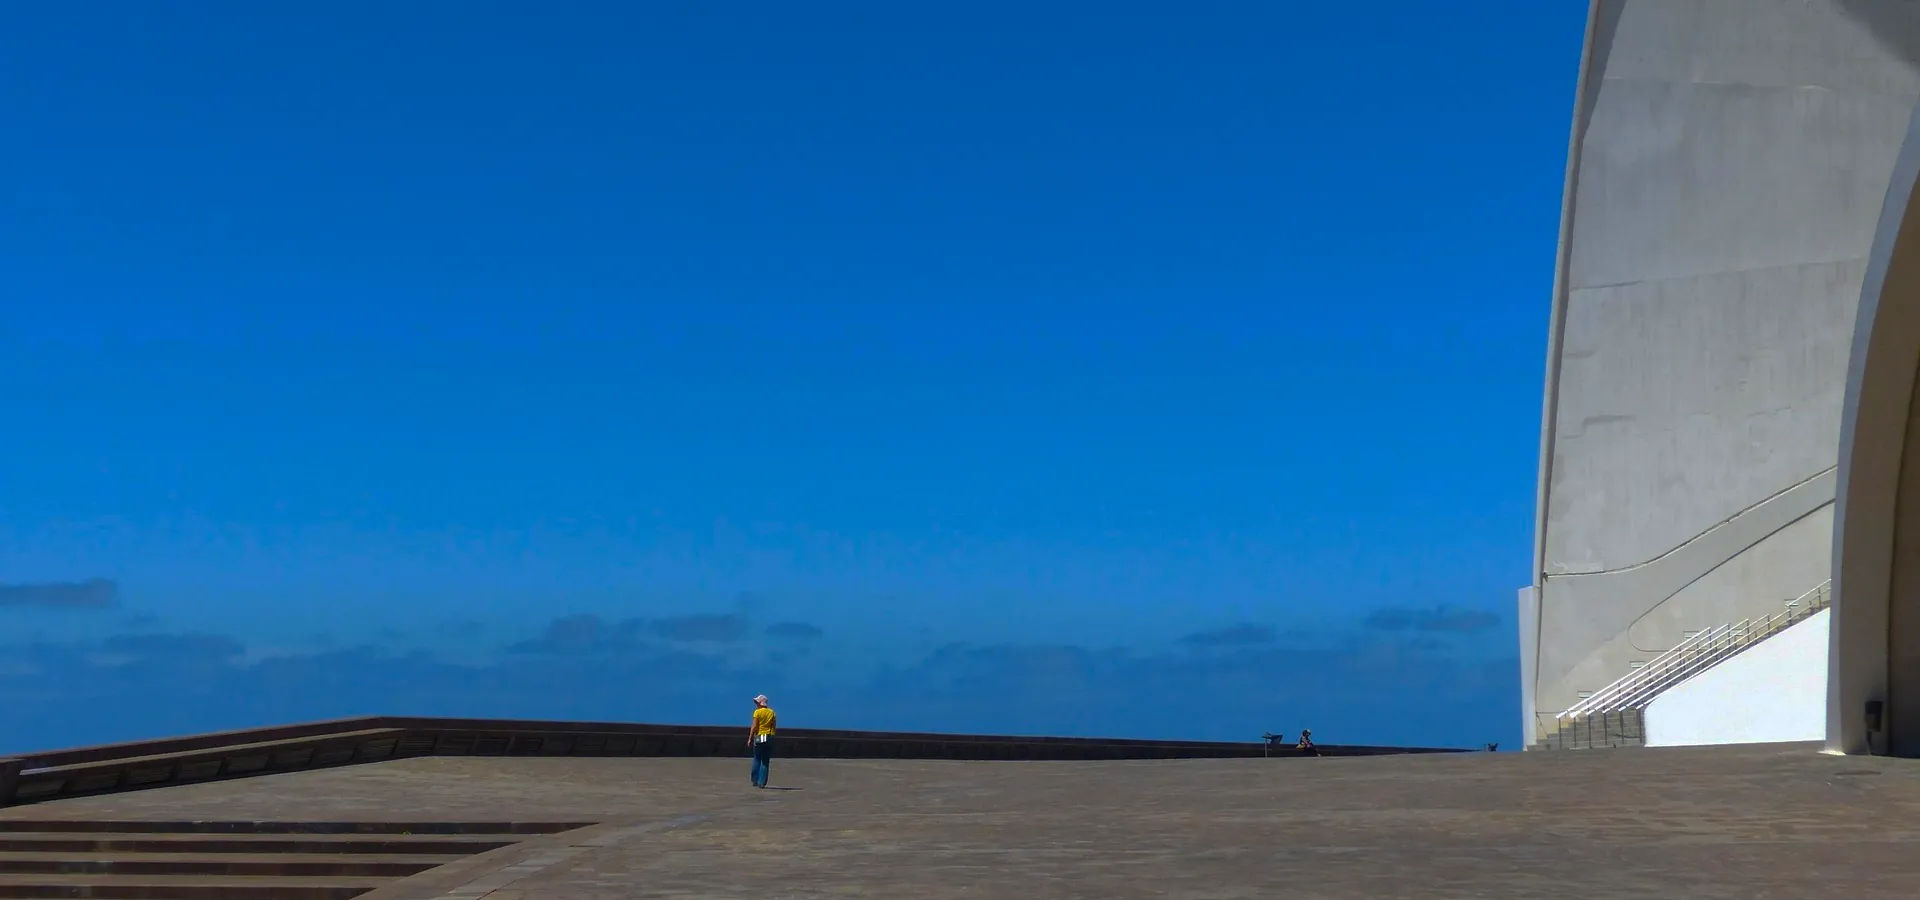
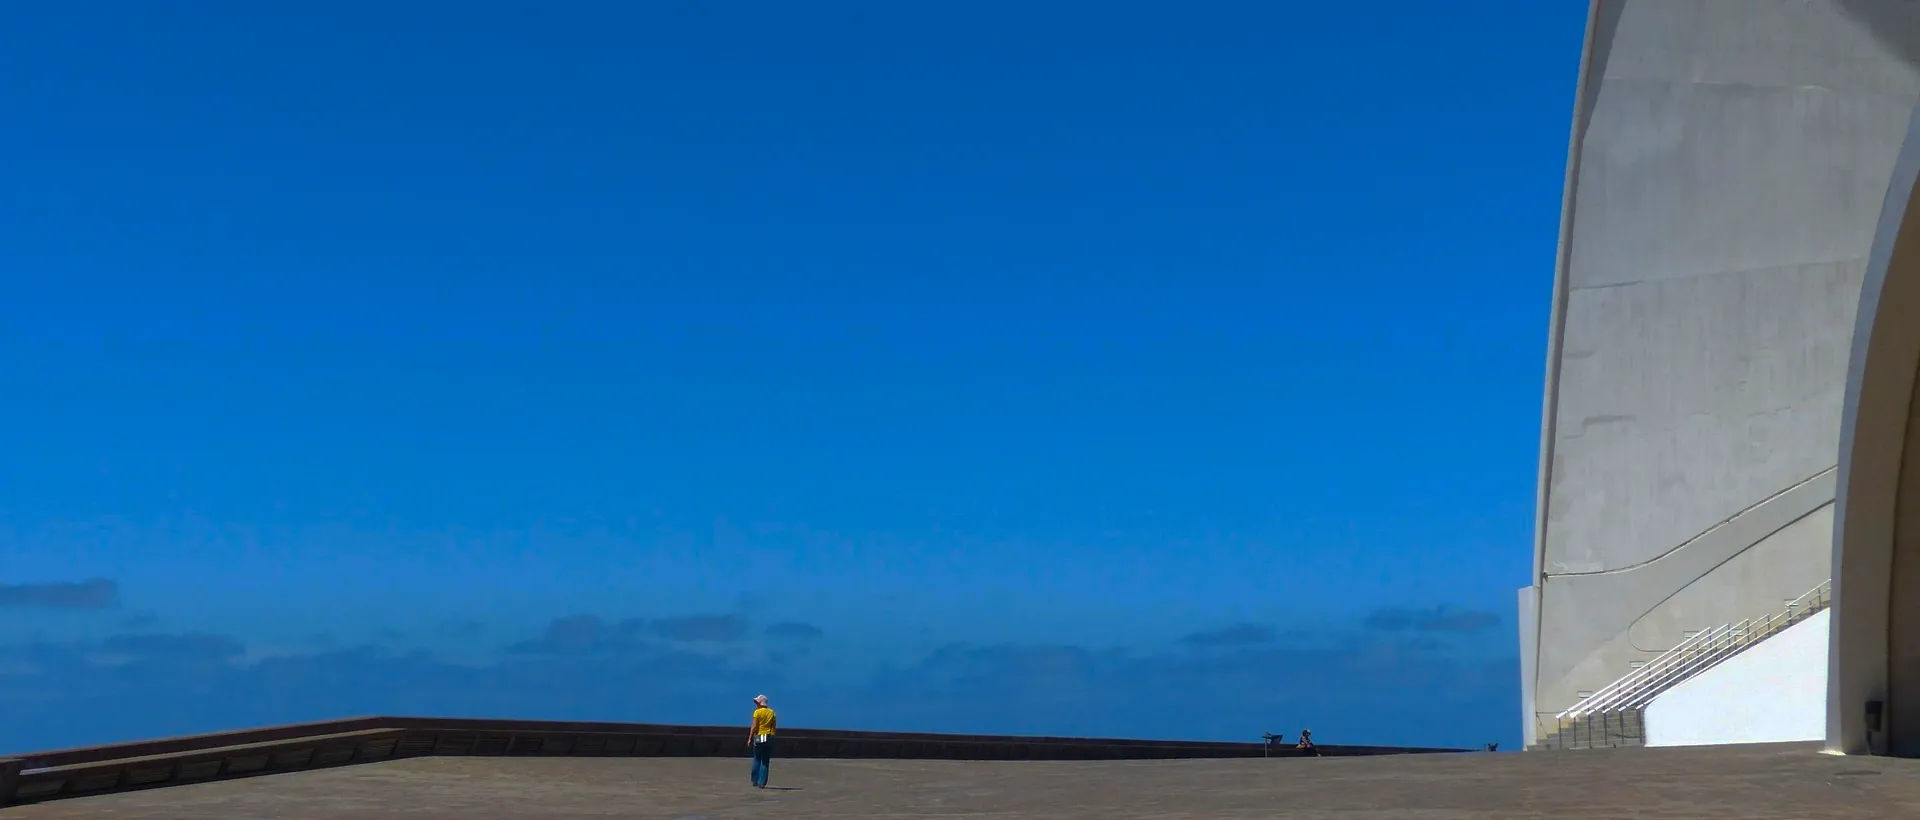
update home, about, and services pages

Changed region(s): [[0.0, 0.3354, 1.0, 1.0], [0.9688, 0.2134, 1.0, 0.4573]]

diff --git a/src/app/page.tsx b/src/app/page.tsx
@@ -10,7 +10,7 @@ export default function Home() {
       <Banner
         title="Become ISO/IEC 27001 Certified"
         subtitle="ISO/IEC 27001 is the world's best-known standard for information security management systems (ISMS). It defines requirements an ISMS must meet."
-        imageUrl="https://res.cloudinary.com/dc2xfaobx/image/upload/f_auto,q_auto/v1766061567/banner-main_fsf1es.webp"
+        imageUrl="https://res.cloudinary.com/dc2xfaobx/image/upload/v1767163945/banner-main_f86xaf.jpg"
         height={680}
       />
       <main className="max-w-375 mx-auto px-6 py-12">
@@ -19,8 +19,65 @@ export default function Home() {
 
         <p className="text-md">Cras mollis, nulla sit amet mattis dapibus, metus libero tincidunt nisi, rhoncus molestie ligula turpis ut dolor. Quisque porttitor leo sed neque dapibus, eget sollicitudin lorem semper. Donec in augue sagittis, rhoncus diam vitae, ultrices elit. Vestibulum euismod, felis et tincidunt euismod, neque sem tincidunt metus, eu cursus nisl est eu mi. Phasellus sodales leo urna, quis mattis ante volutpat id. Proin gravida eleifend tempor. Phasellus euismod ipsum nisi, accumsan efficitur magna tristique sed. Phasellus malesuada nisi lorem, a dapibus neque sagittis vitae. Pellentesque gravida, leo a tincidunt pellentesque, ante elit efficitur quam, id rutrum purus sem vel dui.</p>
 
-        <p className="text-md">Etiam ultricies magna erat, at suscipit metus porta interdum. Proin volutpat scelerisque lacus lobortis commodo. Curabitur egestas iaculis fermentum. Mauris auctor sapien a nulla facilisis, at mollis lacus imperdiet. Quisque quis congue nisl. Donec lacinia ipsum turpis, sed placerat ligula mollis nec. Ut dapibus, lorem sit amet auctor hendrerit, enim nulla laoreet nulla, a commodo quam diam pretium mauris. Phasellus ut nulla lorem. Maecenas vulputate, nulla at ullamcorper accumsan, mauris nibh luctus nisl, vel viverra nibh lacus eget nisl. Class aptent taciti sociosqu ad litora torquent per conubia nostra, per inceptos himenaeos. Nullam quis ante volutpat, rutrum ex eget, dapibus metus. Cras consectetur bibendum nisi, et suscipit purus porttitor vel. Integer rutrum quam eget sem aliquet, sit amet iaculis nulla tincidunt. Nunc iaculis risus ut magna laoreet, in hendrerit lorem dignissim.</p>
+        <p className="text-md">Etiam ultricies magna erat, at suscipit metus porta interdum. Proin volutpat scelerisque lacus lobortis commodo. Curabitur egestas iaculis fermentum. Mauris auctor sapien a nulla facilisis, at mollis lacus imperdiet. Quisque quis congue nisl. Donec lacinia ipsum turpis, sed placerat ligula mollis nec.</p>
+
+
+        {/* Testimonials */}
+        <div className="block my-12">
+          <h2 className="text-3xl text-center font-bold mb-4">What our satified clients had to say</h2>
+
+          <div className="mt-12 grid grid-cols-1 md:grid-cols-3 gap-8">
+            <div className="bg-gray-100 p-6 rounded-lg shadow-md">
+              <div className="flex items-center mb-4">
+                <div className="w-16 h-16 rounded-full overflow-hidden mr-4">
+                  <img src="/personnel/sample1.jpg" alt="John Doe" className="w-full h-full object-cover" />
+                </div>
+                <div className="h-16 overflow-hidden">
+                  <span className="font-semibold text-lg m-0 block">John Doe</span>
+                  <span className="text-sm text-gray-600">CEO, Example Corp.</span>
+                </div>
+              </div>
+              <p className="text-md mb-4">"Qualitex PH provided exceptional service. Their expertise helped us streamline our processes and achieve our certification goals efficiently. Highly recommended!"</p>
+              <div className="flex text-yellow-500 text-2xl">
+                {'★'.repeat(5)}
+              </div>
+            </div>
+
+            <div className="bg-gray-100 p-6 rounded-lg shadow-md">
+              <div className="flex items-center mb-4">
+                <div className="w-16 h-16 rounded-full overflow-hidden mr-4">
+                  <img src="/personnel/sample2.jpg" alt="Jane Smith" className="w-full h-full object-cover" />
+                </div>
+                <div className="h-16 overflow-hidden">
+                  <span className="font-semibold text-lg m-0 block">Jane Smith</span>
+                  <span className="text-sm text-gray-600">Operations Manager, Global Solutions</span>
+                </div>
+              </div>
+              <p className="text-md mb-4">"The team at Qualitex PH was incredibly professional and knowledgeable. They guided us through every step of the ISO certification process with ease."</p>
+              <div className="flex text-yellow-500 text-2xl">
+                {'★'.repeat(5)}
+              </div>
+            </div>
+
+            <div className="bg-gray-100 p-6 rounded-lg shadow-md">
+              <div className="flex items-center mb-4">
+                <div className="w-16 h-16 rounded-full overflow-hidden mr-4">
+                  <img src="/personnel/sample3.jpg" alt="Alice Johnson" className="w-full h-full object-cover" />
+                </div>
+                <div className="h-16 overflow-hidden">
+                  <span className="font-semibold text-lg m-0 block">Alice Johnson</span>
+                  <span className="text-sm text-gray-600">Director, Tech Innovations</span>
+                </div>
+              </div>
+              <p className="text-md mb-4">"We are extremely satisfied with the results. Qualitex PH helped us not only achieve compliance but also improve our overall quality management system."</p>
+              <div className="flex text-yellow-500 text-2xl">
+                {'★'.repeat(5)}
+              </div>
+            </div>
+          </div>
+        </div>
       </main>
+
       <Footer />
     </>
   );

diff --git a/src/app/services/page.tsx b/src/app/services/page.tsx
@@ -16,6 +16,12 @@ export default function Services() {
       />
       <main className="max-w-375 mx-auto px-6 py-12">
 
+        <div className="text-center mb-10 mt-12">
+          <h2 className="text-6xl font-bold mb-4">ISO/IEC 27001:2022</h2>
+          <p className="text-2xl">Information security, cybersecurity and privacy protection &mdash; Information security management systems &mdash; Requirements</p>
+          <p className="text-2xl mb-8">With cyber-crime on the rise and <strong>new threats constantly emerging,</strong> it can seem difficult or even impossible to manage cyber-risks. ISO/IEC 27001 helps organizations become risk-aware and proactively identify and address weaknesses.</p>
+        </div>
+
         {/* Services Categories */}
         <div className="flex flex-col md:flex-row gap-10 my-12">
           <div className="w-full md:w-1/4 p-5 border border-gray-200 shadow-md hover:shadow-xl transition-shadow duration-300">
@@ -98,12 +104,6 @@ export default function Services() {
             </div>
           </div>
         </div>
-
-
-        <h2 className="text-3xl font-bold mb-4">Services</h2>
-        <p className="text-md">{siteConfig.brand} offers a wide range of textile services tailored to your needs.Vivamus sed dolor sed sem porta egestas. Praesent urna velit, vulputate in viverra a, dapibus vel orci. Cras accumsan, ex a iaculis lacinia, lacus orci congue neque, vel suscipit urna nunc vel arcu. Nunc ultricies facilisis placerat. Maecenas et venenatis nibh. Duis eu eros consectetur, porttitor urna vulputate, volutpat dolor. Etiam lorem ipsum, elementum id ex eget, pretium laoreet turpis. Proin eget enim a quam consectetur rhoncus. Nunc in ipsum et risus aliquam fermentum a ac massa. Cras in pretium erat. Donec tristique elit eget nisl pharetra sodales. Aenean sit amet condimentum est. Aenean in eros non elit malesuada imperdiet. Quisque sollicitudin gravida elementum. Curabitur eget dapibus felis.</p>
-
-        <p className="text-md">Donec metus nunc, pretium ut auctor quis, lacinia vitae libero. Duis aliquet justo purus, cursus consequat sem fringilla vitae. Suspendisse porttitor ullamcorper magna, et tincidunt arcu tincidunt sed. Aenean posuere justo arcu, eget pulvinar dui consectetur sit amet. Integer sed orci gravida, malesuada ipsum sit amet, sodales leo. Praesent ullamcorper pretium est, ut varius lacus. Donec et nisl convallis, mattis sapien quis, aliquet ante. Curabitur cursus augue felis, at porta orci gravida sed. Ut sagittis fringilla diam, et lacinia ligula pretium ac. Sed id urna dolor. Etiam a auctor dui, eu rutrum dolor. Maecenas est nulla, vulputate at ante non, tempor facilisis leo. Fusce ut fringilla sem. Integer interdum a enim id tempor. Fusce nec interdum dui, sit amet mollis arcu.</p>
       </main>
       <Footer />
     </>

diff --git a/src/components/Banners/Home.tsx b/src/components/Banners/Home.tsx
@@ -17,8 +17,8 @@ const Banner: React.FC<BannerProps> = ({ title, subtitle, imageUrl, height = 680
     <Image
       src={imageUrl}
       alt={title}
-      fill
-      className="object-cover z-10"
+      fill={true}
+      className="object-cover object-bottom z-10"
       unoptimized
       priority
     />
@@ -47,7 +47,7 @@ const Banner: React.FC<BannerProps> = ({ title, subtitle, imageUrl, height = 680
           </Link>
 
           <Link
-            href="/services" className="inline-flex items-center justify-center bg-amber-900 text-white px-7 py-2 rounded-md hover:bg-amber-950 transition-colors cursor-pointer"
+            href="/services" className="inline-flex items-center justify-center bg-gray-300 text-gray-800 px-7 py-2 rounded-md hover:bg-blue-900 hover:text-white transition-colors cursor-pointer"
           >
             Our Services
           </Link>

diff --git a/src/app/about/page.tsx b/src/app/about/page.tsx
@@ -9,7 +9,7 @@ const industry = [
   { src: '/industries/semiconductor.png', alt: 'Semiconductor & Electronics' },
   { src: '/industries/automotive.png', alt: 'Automotive' },
   { src: '/industries/med-devices.png', alt: 'Medical Devices' },
-  { src: '/industries/eng-const.png', alt: 'Engineering/ Construction' },
+  { src: '/industries/eng-const.png', alt: 'Engineering / Construction' },
   { src: '/industries/info-tech.png', alt: 'Information Technology' },
   { src: '/industries/business-services.png', alt: 'Business Services' },
   { src: '/industries/food.png', alt: 'Food Safety' },
